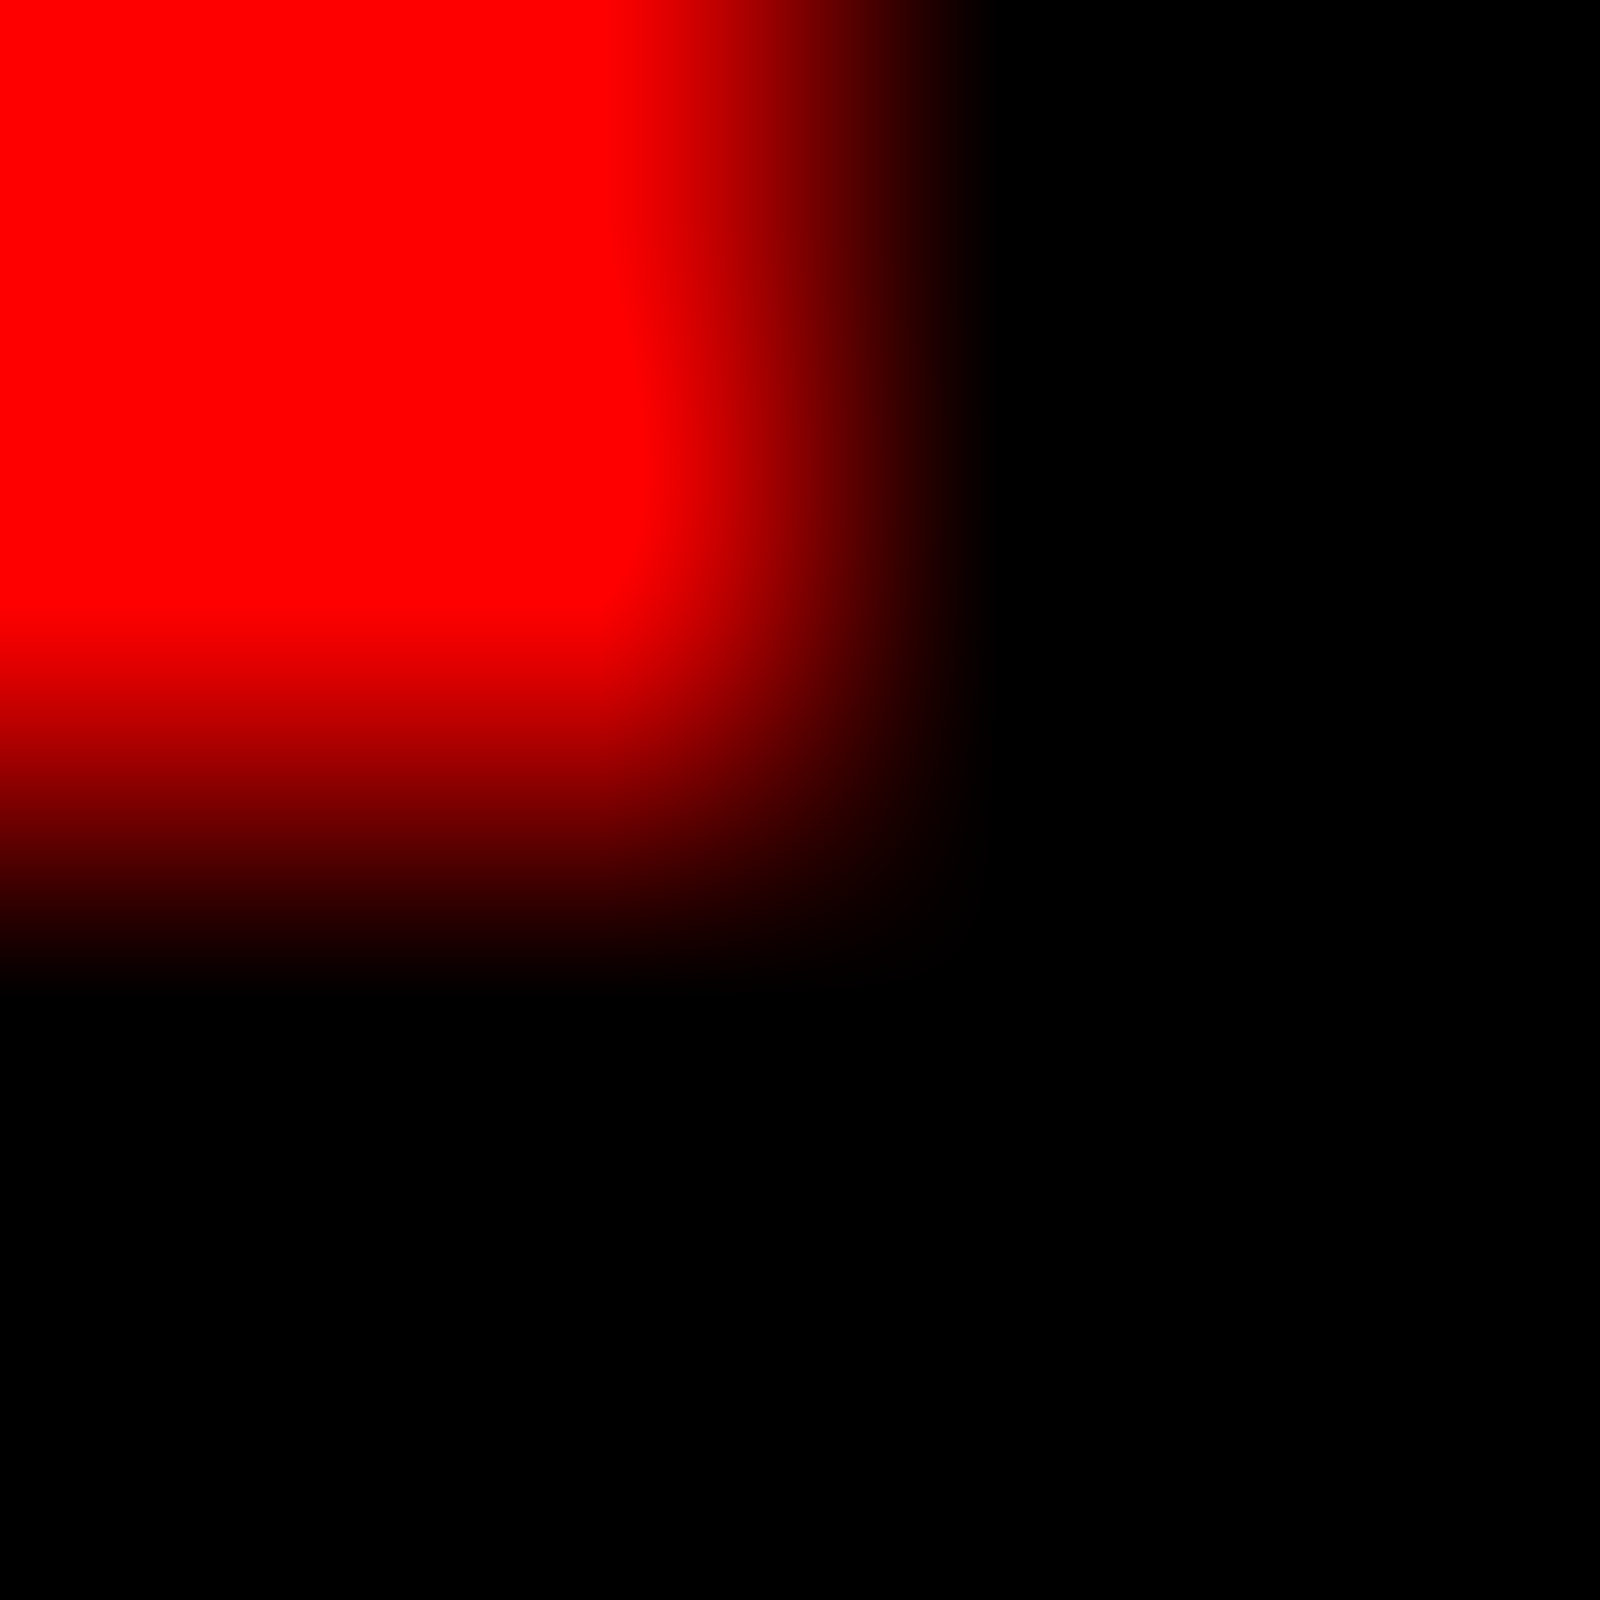
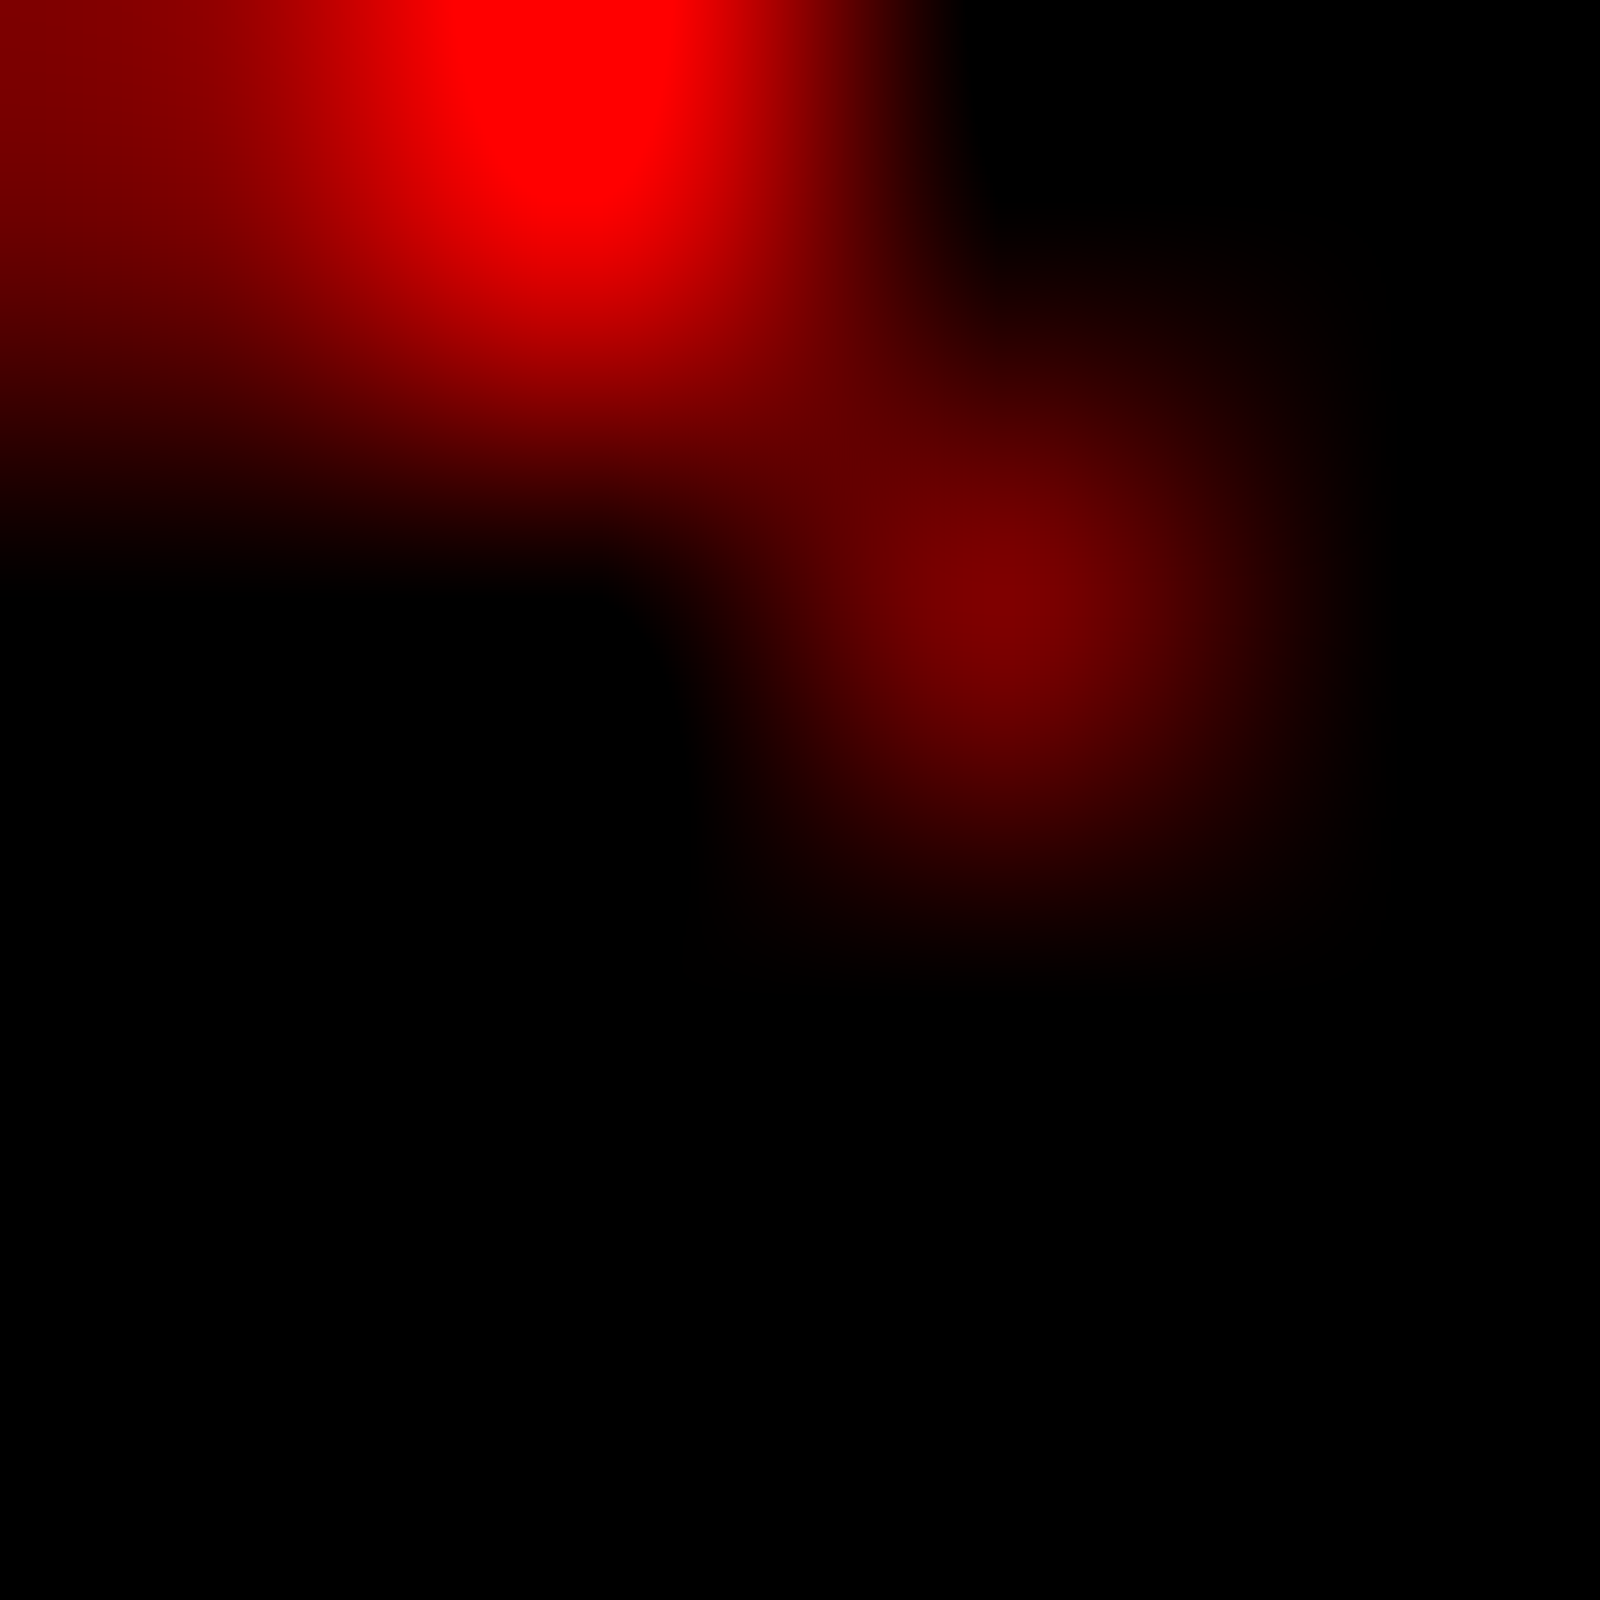
add enzyme_grid

diff --git a/src/Simulate.py b/src/Simulate.py
@@ -2,13 +2,14 @@ import Agent
 import random
 
 class Simulate():
-	def __init__(self, config_obj, model, agents_obj, resource_obj, stats, world_number):
+	def __init__(self, config_obj, model, agents_obj, resource_obj, enzyme_obj, stats, world_number):
 		self.agents_obj   = agents_obj
 		self.resource_obj = resource_obj
 		self.model        = model
 		self.config_obj   = config_obj
 		self.stats        = stats
 		self.world_number = world_number
+		self.enzyme_obj   = enzyme_obj
 		self.current_time_step = 0
 
 	def onStartSimulation(self):
@@ -33,6 +34,7 @@ class Simulate():
 	def onStartTimeStep(self, current_time_step):
 		self.current_time_step = current_time_step
 		r_obj                  = self.resource_obj
+		e_obj                  = self.enzyme_obj
 		model                  = self.model
 		new_agents             = dict([(agent.index, agent) for agent in self.agents_obj.agentsAt.get(current_time_step+1, [])])
 		dead_agents            = []
@@ -47,16 +49,27 @@ class Simulate():
 				r_obj.resource_grid[x][y] += model.resource_production_fn(x, y, current_time_step)
 
 		for agent in agents_list:
+			x = agent.x;  y = agent.y;  atype = agent.type
+
 			# increase age by 1
 			agent.age += 1
 
-			# consume food
-			x = agent.x; y = agent.y; atype = agent.type
-			resource_consumed          = min(r_obj.resource_grid[x][y], model.consumption_fn[atype](x, y, r_obj.resource_grid))
-			agent.atp                 += model.production_fn[atype](resource_consumed)
-			r_obj.resource_grid[x][y] -= resource_consumed
+			# produce enzyme
+			e_obj.enzyme_grid[x][y] += model.enzyme_production_fn[atype](r_obj.resource_grid[x][y])
 
-			# divide if divage crossed
+			# consume enzyme
+			enzyme_consumed          = min(e_obj.enzyme_grid[x][y], model.enzyme_consumption_fn[atype](e_obj.enzyme_grid[x][y]))
+			e_obj.enzyme_grid[x][y] -= enzyme_consumed
+			agent.enzyme            += enzyme_consumed
+
+			# consume resource and utilize enzyme
+			resource_consumed = min(r_obj.resource_grid[x][y], model.consumption_fn[atype](r_obj.resource_grid[x][y], agent.enzyme))
+				# take one-forth of resource as enzyme consumption within the cell
+			agent.enzyme              -= min(agent.enzyme, resource_consumed // 4)
+			r_obj.resource_grid[x][y] -= resource_consumed
+			agent.atp                 += model.production_fn[atype](resource_consumed)
+
+			# divide if div_age crossed
 			if agent.age % agent.div_age == 0 and agent.atp >= agent.food_req:
 				new_x, new_y  = agent.find_division_loc(x, y, self.config_obj.grid_size)
 				new_info_dict = {'X': new_x, 'Y': new_y, 'Type': agent.type}

diff --git a/src/Model.py b/src/Model.py
@@ -2,28 +2,31 @@ import random
 
 class ScheduledModel():
 	def __init__(self):
+		self.name = 'Scheduled Model'
 		self.individual_state_types= []
 		self.consumption_fn        = {}
 		self.production_fn         = {}
+		self.enzyme_production_fn  = {}
+		self.enzyme_consumption_fn = {}
 		self.state_food_mean       = {}
 		self.state_food_vary       = {}
 		self.state_divideAge_mean  = {}
 		self.state_divideAge_vary  = {}
 		self.state_noOfDiv_mean    = {}
 		self.state_noOfDiv_vary    = {}
-		self.name = 'Scheduled Model'
-		self.set_resource_production_fn = None
 
-	def insert_state(self, state, resource_consumption_fn, atp_production_fn, division_age, min_food_req_to_divide, no_of_div_before_death):
+	def insert_state(self, state, resource_consumption_fn, atp_production_fn, enzyme_production_fn, enzyme_consumption_fn, division_age, min_food_req_to_divide, no_of_div_before_death):
 		self.individual_state_types.append(state)
-		self.consumption_fn[state]       = resource_consumption_fn
-		self.production_fn[state]        = atp_production_fn
-		self.state_food_mean[state]      = min_food_req_to_divide[0]
-		self.state_food_vary[state]      = min_food_req_to_divide[1]
-		self.state_divideAge_mean[state] = division_age[0]
-		self.state_divideAge_vary[state] = division_age[1]
-		self.state_noOfDiv_mean[state]   = no_of_div_before_death[0]
-		self.state_noOfDiv_vary[state]   = no_of_div_before_death[1]
+		self.consumption_fn[state]        = resource_consumption_fn
+		self.production_fn[state]         = atp_production_fn
+		self.enzyme_production_fn[state]  = enzyme_production_fn
+		self.enzyme_consumption_fn[state] = enzyme_consumption_fn
+		self.state_food_mean[state]       = min_food_req_to_divide[0]
+		self.state_food_vary[state]       = min_food_req_to_divide[1]
+		self.state_divideAge_mean[state]  = division_age[0]
+		self.state_divideAge_vary[state]  = division_age[1]
+		self.state_noOfDiv_mean[state]    = no_of_div_before_death[0]
+		self.state_noOfDiv_vary[state]    = no_of_div_before_death[1]
 
 	def initialize_states(self, agents):
 		for agent_index in agents:

diff --git a/src/ReadFile.py b/src/ReadFile.py
@@ -30,6 +30,7 @@ class ReadConfiguration(BaseReadFile):
 		self.time_steps = (int)(self.get_value_config(f.readline()))
 		self.agent_filename = self.get_value_config(f.readline())
 		self.glucose_filename = self.get_value_config(f.readline())
+		self.enzyme_filename = self.get_value_config(f.readline())
 		self.example_path = example_path
 
 		f.close()
@@ -94,6 +95,26 @@ class ReadResource(BaseReadFile):
 			for i in range(n):
 				row_i = [int(x) for x in self.get_value(f.readline()).split()]
 				self.resource_grid[i] = row_i
+				if(len(row_i) != n):
+					print("ERROR: Resource initilization error. Please check your resource file!")
+					exit()
+			f.close()
+
+
+class ReadEnzyme(BaseReadFile):
+	def __init__(self, config_obj):
+		super().__init__()
+		filename = config_obj.enzyme_filename
+		n = config_obj.grid_size
+		self.enzyme_grid = [[0 for i in range(n)] for j in range(n)]
+		if(filename != ''):
+			try:
+				f = open(osp.join(config_obj.example_path, filename), 'r')
+			except:
+				self.FileNotFound(filename)
+			for i in range(n):
+				row_i = [int(x) for x in self.get_value(f.readline()).split()]
+				self.enzyme_grid[i] = row_i
 				if(len(row_i) != n):
 					print("ERROR: Resource initilization error. Please check your resource file!")
 					exit()

diff --git a/examples/enzyme/UserModel.py b/examples/enzyme/UserModel.py
@@ -1,0 +1,38 @@
+import Model
+
+class UserModel(Model.ScheduledModel):
+	def __init__(self):
+		super(UserModel, self).__init__()
+		self.resource_production_fn = resource_production_fn
+		#self.insert_state(name, resource_consumption_fn, atp_production_fn, division_age, min_atp_req_to_divide, no_of_div_before_death)
+		self.insert_state('A', resource_consumption_fnA, atp_production_fnA, enzyme_production_fnA, enzyme_consumption_fnA, \
+      																												(2, 0), (4, 0), (4, 0))
+		self.insert_state('B', resource_consumption_fnB, atp_production_fnB, enzyme_production_fnB, enzyme_consumption_fnB, \
+      																												(2, 0), (2, 0), (4, 0))
+
+def resource_production_fn(x, y, time_step):
+    return 1
+
+def resource_consumption_fnA(resource_avalible, enzyme_avalible):
+    return 1
+
+def resource_consumption_fnB(resource_avalible, enzyme_avalible):
+    return 1
+
+def atp_production_fnA(resource_consumed):
+    return 1
+
+def atp_production_fnB(resource_consumed):
+    return 1
+
+def enzyme_production_fnA(resource_avalible):
+    return 0
+
+def enzyme_production_fnB(resource_avalible):
+    return 0
+
+def enzyme_consumption_fnA(enzyme_avalible):
+    return 0
+
+def enzyme_consumption_fnB(enzyme_avalible):
+    return 0

diff --git a/examples/basic/UserModel.py b/examples/basic/UserModel.py
@@ -3,13 +3,13 @@ import Model
 def resource_production_fn(x, y, time_step):
     return 1
 
-def resource_consumption_fnA(x, y, resource):
+def resource_consumption_fnA(resource_avalible, enzyme_avalible):
+    return 1
+
+def resource_consumption_fnB(resource_avalible, enzyme_avalible):
     return 1
 
 def atp_production_fnA(resource_consumed):
-    return 1
-
-def resource_consumption_fnB(x, y, resource):
     return 1
 
 def atp_production_fnB(resource_consumed):
@@ -20,5 +20,5 @@ class UserModel(Model.ScheduledModel):
 		super(UserModel, self).__init__()
 		self.resource_production_fn = resource_production_fn
 		#self.insert_state(name, resource_consumption_fn, atp_production_fn, division_age, min_atp_req_to_divide, no_of_div_before_death)
-		self.insert_state('A', resource_consumption_fnA, atp_production_fnA, (2, 0), (4, 0), (4, 0))
-		self.insert_state('B', resource_consumption_fnB, atp_production_fnB, (2, 0), (2, 0), (4, 0))
+		self.insert_state('A', resource_consumption_fnA, atp_production_fnA, lambda x: 0, lambda x: 0, (2, 0), (4, 0), (4, 0))
+		self.insert_state('B', resource_consumption_fnB, atp_production_fnB, lambda x: 0, lambda x: 0, (2, 0), (2, 0), (4, 0))

diff --git a/src/World.py b/src/World.py
@@ -19,7 +19,10 @@ class World():
         # Intialize resource grid
         resource_obj = ReadFile.ReadResource(self.config_obj)
 
-        sim_obj = Simulate.Simulate(self.config_obj, self.model, self.agents_obj, resource_obj, stats, world_number)
+        # Initialize enzyme grid
+        enzyme_obj = ReadFile.ReadEnzyme(self.config_obj)
+
+        sim_obj = Simulate.Simulate(self.config_obj, self.model, self.agents_obj, resource_obj, enzyme_obj, stats, world_number)
         sim_obj.onStartSimulation()
 
         if(stats):
@@ -27,6 +30,11 @@ class World():
             if(world_number == 0):
                 statFile.write('\n' + 'Initial Resource Grid' + '\n')
                 for row in resource_obj.resource_grid:
+                    for x in row:
+                        statFile.write(str(x) + ' ')
+                    statFile.write('\n')
+                statFile.write('\n' + 'Initial Enzyme Grid' + '\n')
+                for row in enzyme_obj.enzyme_grid:
                     for x in row:
                         statFile.write(str(x) + ' ')
                     statFile.write('\n')

diff --git a/src/Agent.py b/src/Agent.py
@@ -7,6 +7,7 @@ class Agent():
 		self.age      = 0
 		self.atp      = 0
 		self.div      = 0
+		self.enzyme   = 0
 		self.x        = int(info_dict['X'])
 		self.y        = int(info_dict['Y'])
 		self.type     = info_dict['Type']
